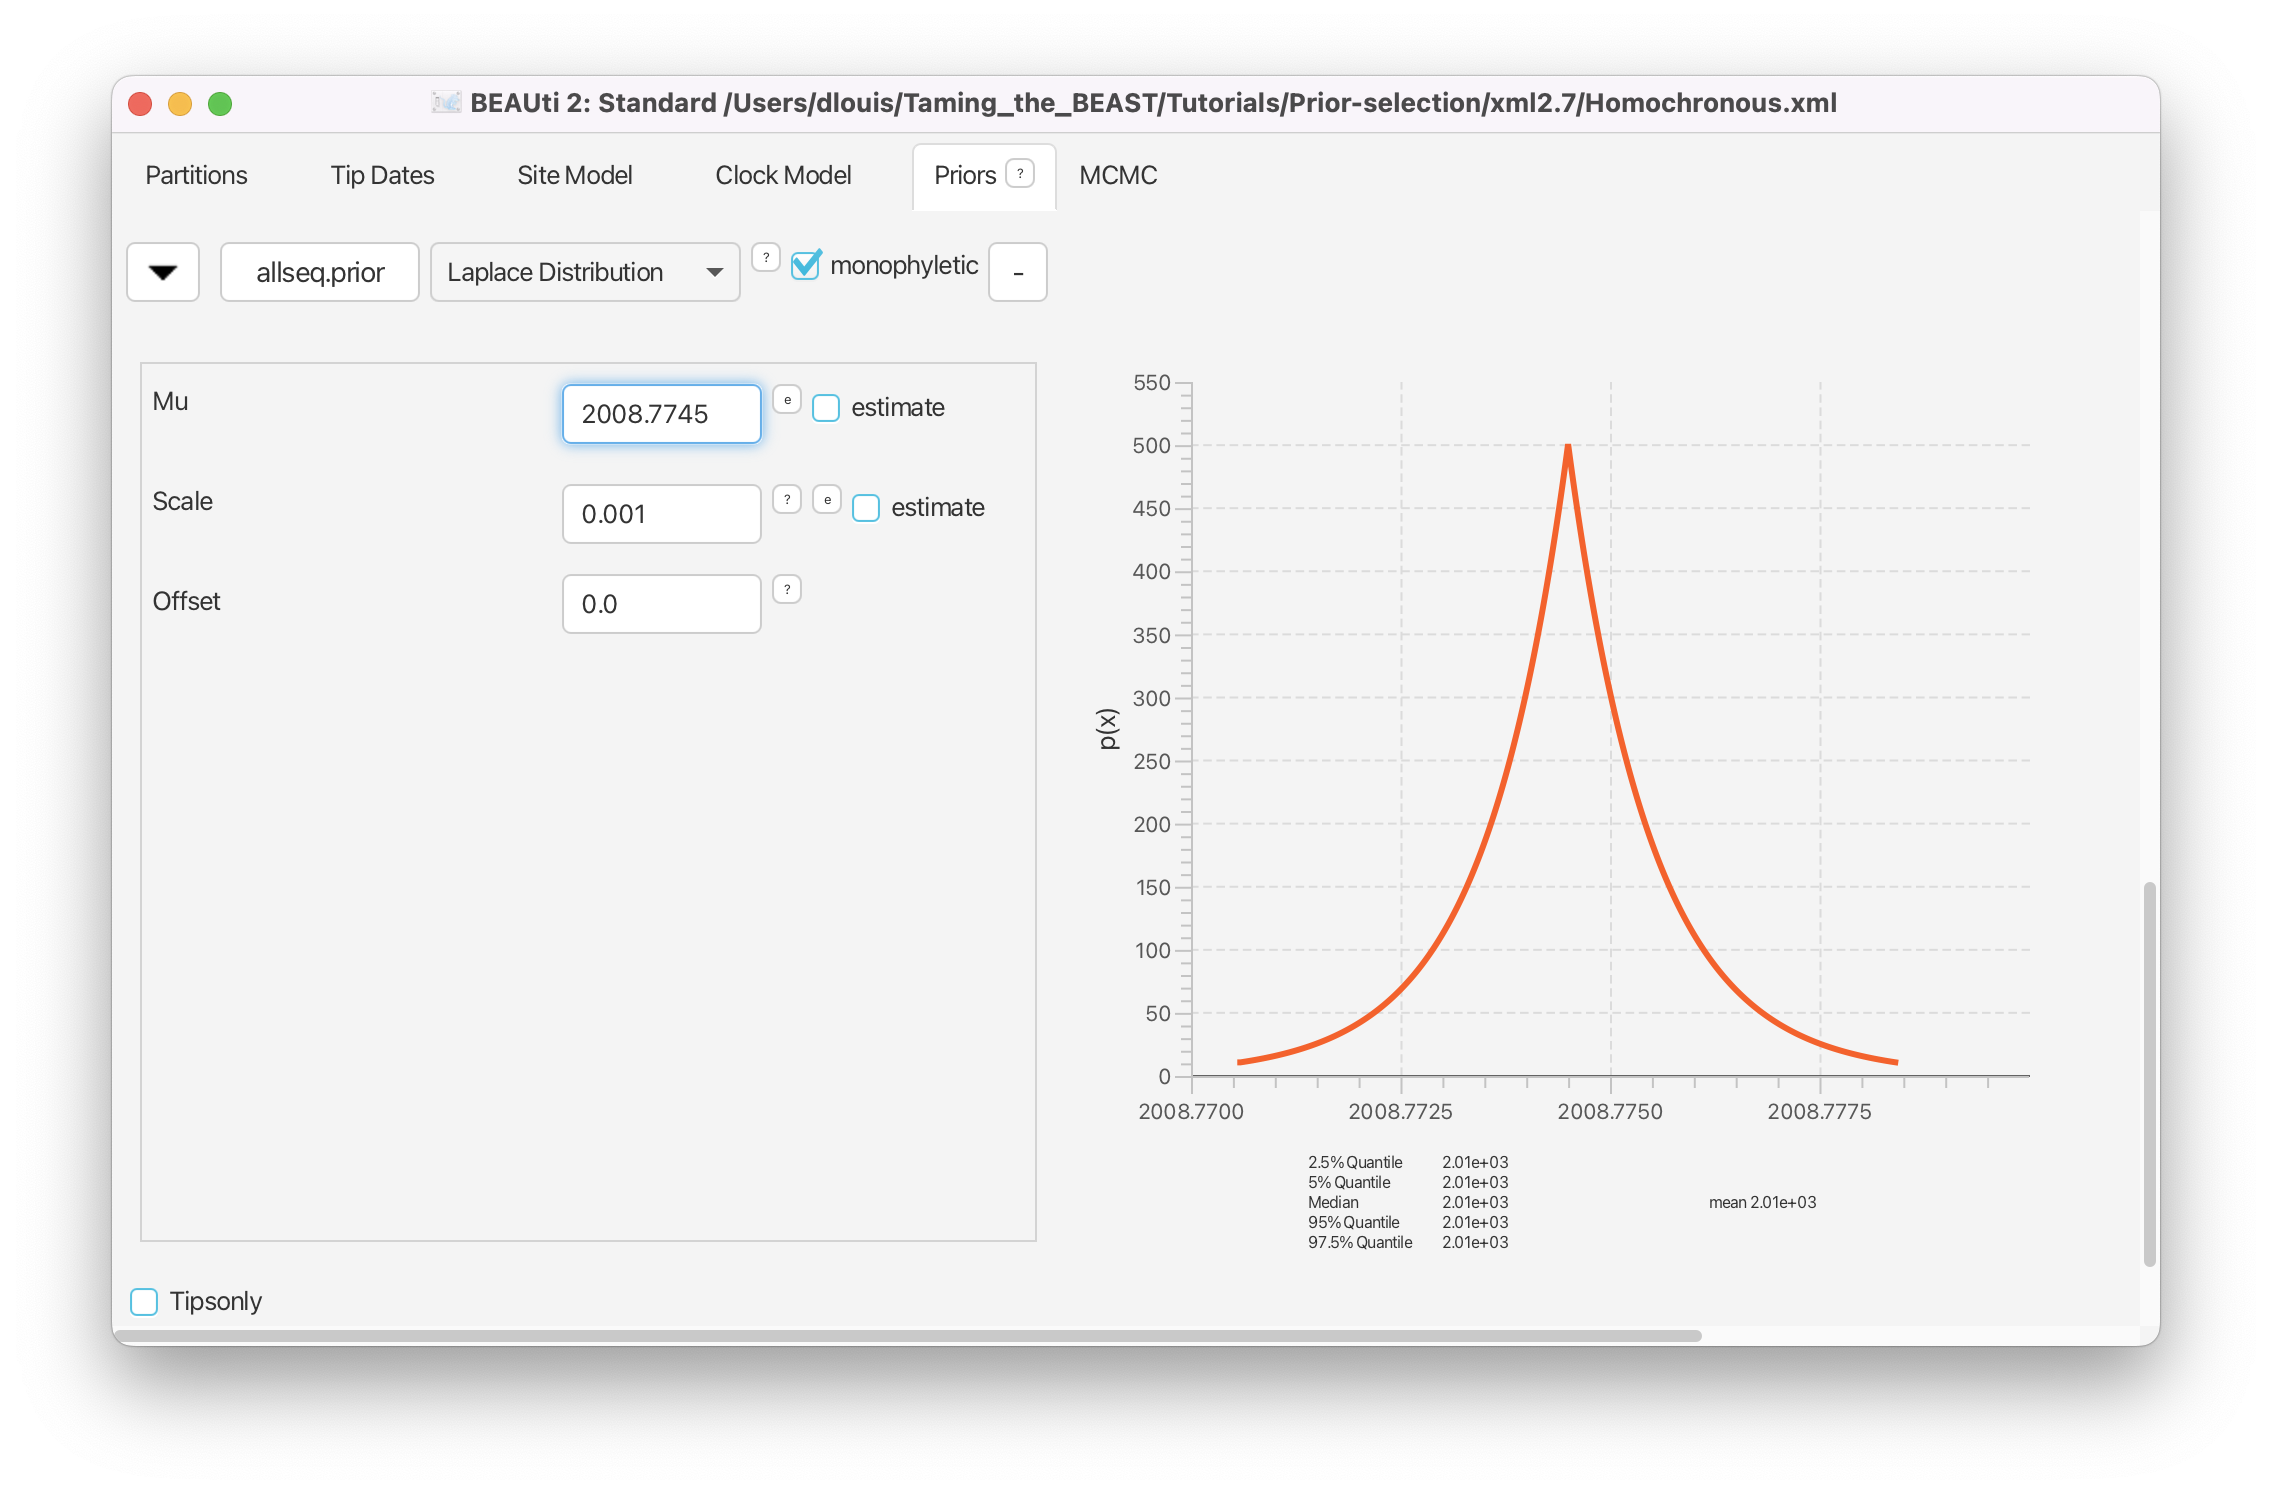
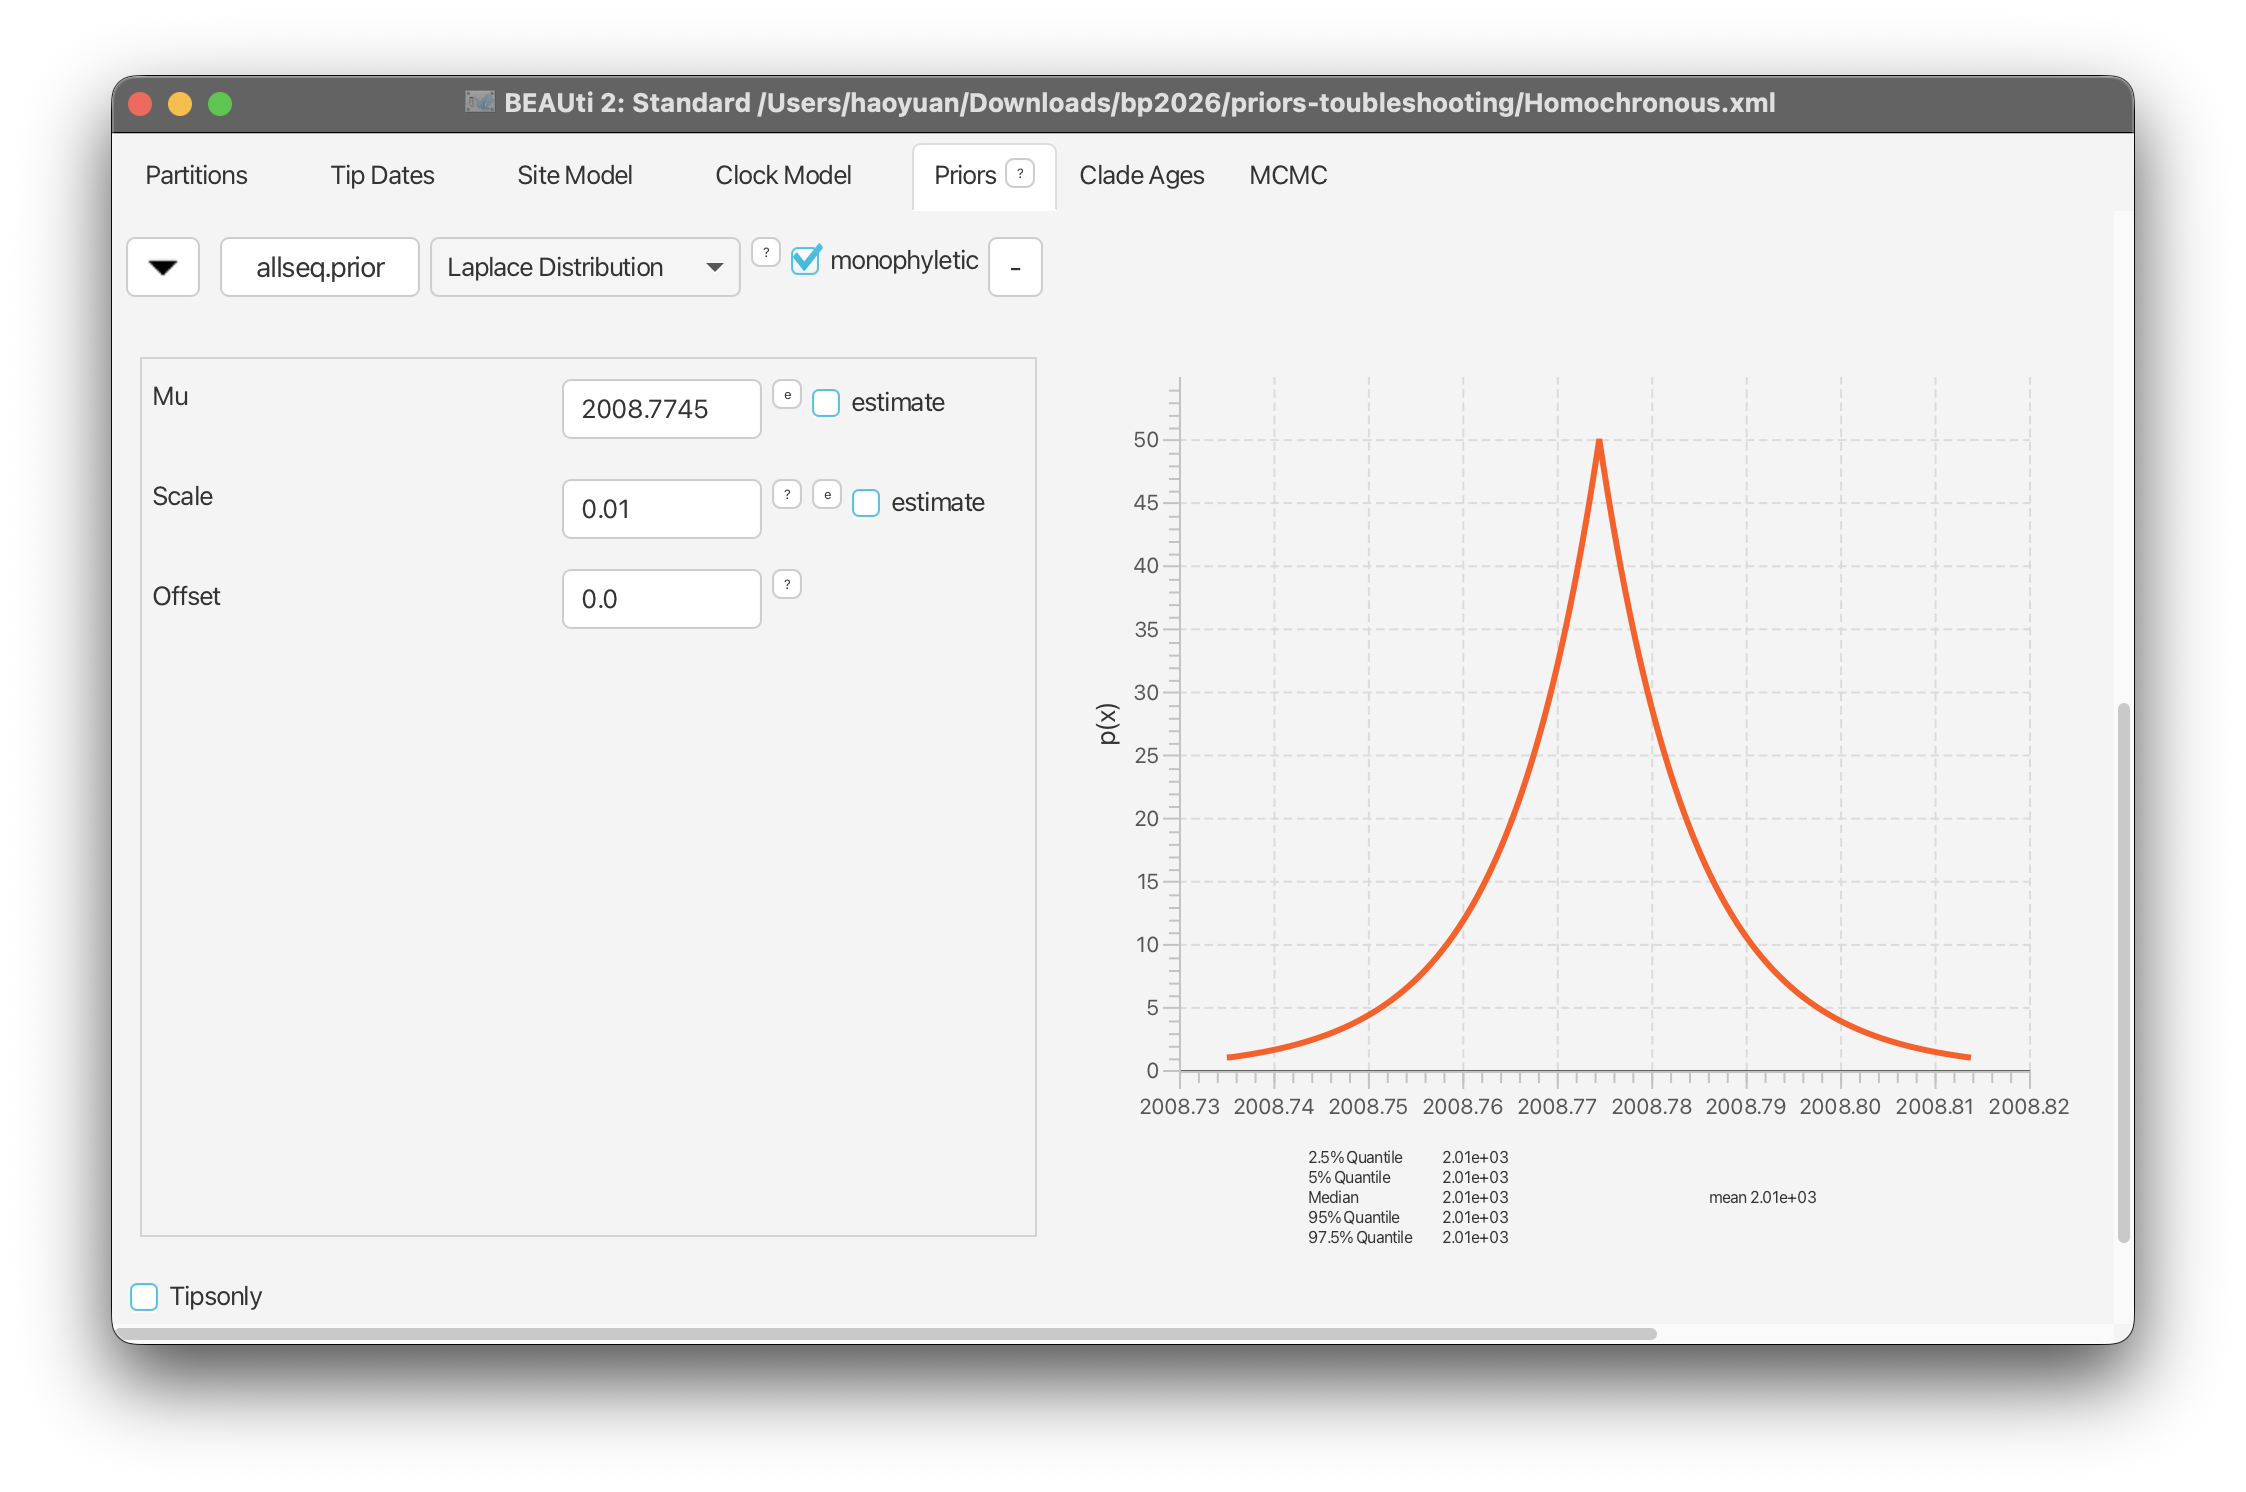
Update figure and text

diff --git a/README.md b/README.md
@@ -347,7 +347,7 @@ After we have specified the prior for {% eqinline R_e %}, the next prior that ne
 
 Looking at the 2.5% and 97.5% quantiles for the distribution we see that 95% of the weight of our becoming uninfectious rate prior falls between 4.44 and 224, i.e. our prior on the period of infectiousness is between {% eqinline \approx %} 1.63 and 82.2 days. Thus, our prior is quite diffuse. If we wanted to use a more specific prior we could decrease the standard deviation of the distribution (the **S** parameter).
 
-For the next parameter, the sampling proportion, we know that we certainly did not sample every single infected individual. Therefore, setting a prior close to 1 would not be reasonable. Actually, it is more reasonable to usually expect only a proportion of less than 0.1 of all flu cases to be sampled. Here, we specify something on the order of {% eqinline 10^{-3} %}. The default prior for the sampling proportion is a Beta distribution, which is only defined between 0 and 1, making it a natural choice for proportions. However, this is not the only prior that can be used, and here we specify a log-normal distribution, while ensuring that an appropriate upper limit is set, to prevent a sampling proportion higher than 1, which is not defined. 
+For the next parameter, the sampling proportion, we know that we certainly did not sample every single infected individual. Therefore, setting a prior close to 1 would not be reasonable. Actually, it is more reasonable to usually expect only a proportion of less than one in every 1,000 flu cases to be sampled. Here, we specify something on the order of {% eqinline 10^{-3} %}. The default prior for the sampling proportion is a Beta distribution, which is only defined between 0 and 1, making it a natural choice for proportions. However, this is not the only prior that can be used, and here we specify a log-normal distribution, while ensuring that an appropriate upper limit is set, to prevent a sampling proportion higher than 1, which is not defined. 
 
 
 > Click on the arrow next to the **samplingProportion** and change the distribution from **Beta** to **Log Normal**. 
@@ -553,7 +553,7 @@ The estimated posterior distribution for the **becomeUninfectiousRate** has a me
 </figure>
 <br>
 
-We see that the sampling proportion ([Figure 21](#tracersampling)) is estimated to be below {% eqinline 5 \times 10^{-5} %}. This a lot lower than the mean we set for the prior on the sampling proportion (0.001). Therefore our prior estimate of the sampling proportion was much too high. Consequently, we see that the number of cases was also much higher than we initially thought. We assumed that there were around 1,000 cases when we set the prior, however our posterior indicates that the epidemic had on the order of tens of thousands of cases. 
+We see that the sampling proportion ([Figure 21](#tracersampling)) is estimated to be below {% eqinline 5 \times 10^{-5} %}. This a lot lower than the mean we set for the prior on the sampling proportion ({% eqinline 10^{-3} %}). Therefore our prior estimate of the sampling proportion was much too high. Consequently, we see that the number of cases was also much higher than we initially thought. When we set the prior, we assumed that we sampled around one in every 1,000 cases, and the total number of cases is 139 * 1,000. However, our posterior indicates that the epidemic had on the order of millions of cases. 
 
 <figure>
 	<a id="tracersampling"></a>
@@ -716,7 +716,7 @@ The prior that we are specifying is the date (not the height) of the tMRCA of al
 
 > Back in the **Priors** window, check the box labeled **monophyletic** for the **allseq.prior**.
 > 
-> Click on the arrow next to the **allseq.prior**. Change the prior distribution on the time of the MRCA of selected sequences from **[none]** to **Laplace Distribution** and set the **Mu** to 2008.7745 and the **Scale** to 0.001 ([Figure 30](#tMRCAPrior2)). 
+> Click on the arrow next to the **allseq.prior**. Change the prior distribution on the time of the MRCA of selected sequences from **[none]** to **Laplace Distribution** and set the **Mu** to 2008.7745 and the **Scale** to 0.01 ([Figure 30](#tMRCAPrior2)). 
 > 
 > You can check that these settings correspond to the height of tMRCA from the MCC tree by setting **Mu** to 0.5488 and observing the distribution to the right. When you are done, do not forget to set **Mu** back to 2008.7745.
 > 
